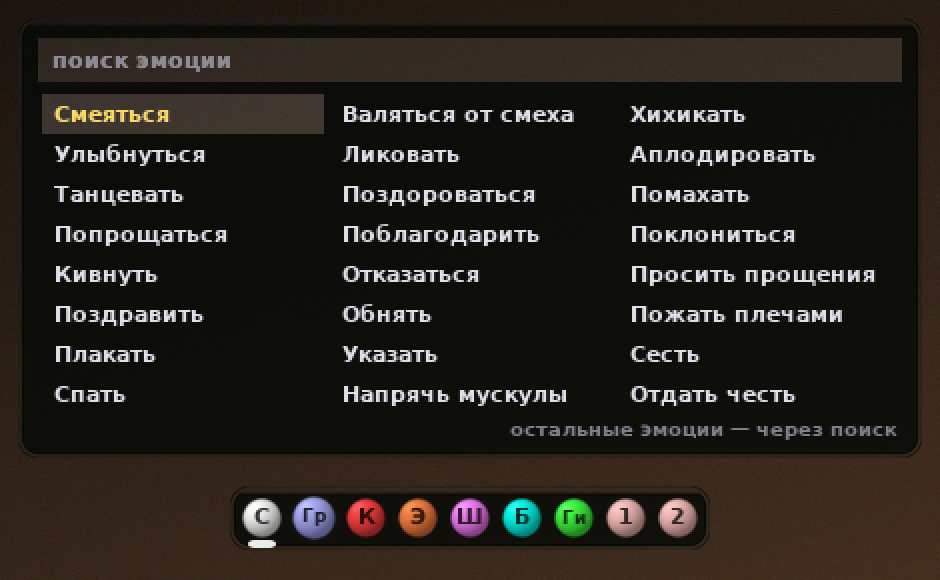
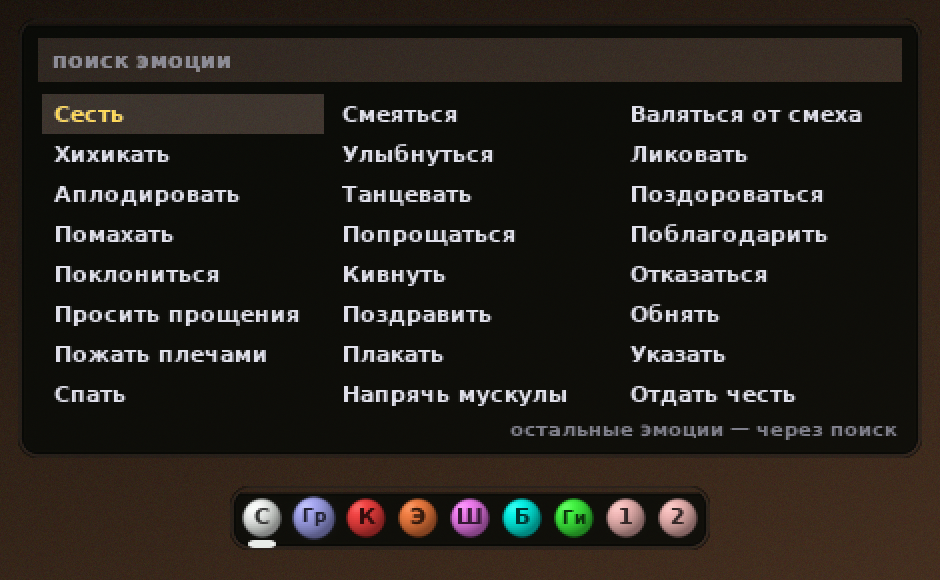
Lead the short emote list with Сесть
It is the one reached for most; the laughing emotes follow it. Order only -
nothing else about the list changes.

Not tested in the game: there is no WoW on the machine this was written on.
The harness runs 3866 checks and passes.

diff --git a/tools/preview.py b/tools/preview.py
@@ -179,13 +179,13 @@ def backdrop(w, h, kind):
 
 
 # The short list, in the addon's own order: one screen, laughing first.
-EMOTES = ["Смеяться", "Валяться от смеха", "Хихикать",
-          "Улыбнуться", "Ликовать", "Аплодировать",
-          "Танцевать", "Поздороваться", "Помахать",
-          "Попрощаться", "Поблагодарить", "Поклониться",
-          "Кивнуть", "Отказаться", "Просить прощения",
-          "Поздравить", "Обнять", "Пожать плечами",
-          "Плакать", "Указать", "Сесть",
+EMOTES = ["Сесть", "Смеяться", "Валяться от смеха",
+          "Хихикать", "Улыбнуться", "Ликовать",
+          "Аплодировать", "Танцевать", "Поздороваться",
+          "Помахать", "Попрощаться", "Поблагодарить",
+          "Поклониться", "Кивнуть", "Отказаться",
+          "Просить прощения", "Поздравить", "Обнять",
+          "Пожать плечами", "Плакать", "Указать",
           "Спать", "Напрячь мускулы", "Отдать честь"]
 COLS, ROWS, CELL_W, CELL_H, PAD, SEARCH_H = 3, 8, 144, 20, 10, 22
 HINT_H = 12                 # strip under the grid, so the hint clears the names
@@ -211,7 +211,7 @@ def render_picker():
     for i, label in enumerate(EMOTES[: COLS * ROWS]):
         col, row = i % COLS, i // COLS
         x, y = PAD + col * CELL_W, top + row * CELL_H
-        if i == 0:                                   # "Смеяться", shown hovered
+        if i == 0:                                   # "Сесть", shown hovered
             d.rectangle((x + 2, y, x + CELL_W - 2, y + CELL_H - 1),
                         fill=(255, 255, 255, 31))
             colour = (255, 217, 89, 255)

diff --git a/README.md b/README.md
@@ -34,8 +34,8 @@
 ![Список эмоций](docs/emotes.png)
 
 Список открывается на **двадцати четырёх нужных эмоциях** — ровно один экран,
-прокручивать нечего. Первая строка — смех: «Смеяться», «Валяться от смеха»,
-«Хихикать».
+прокручивать нечего. Первой идёт «Сесть», за ней смех: «Смеяться», «Валяться
+от смеха», «Хихикать».
 
 Остальное никуда не делось: как только начинаешь печатать в поиске, ищется
 **всё, что знает клиент** — по русскому названию, по слэш-команде клиента и по
